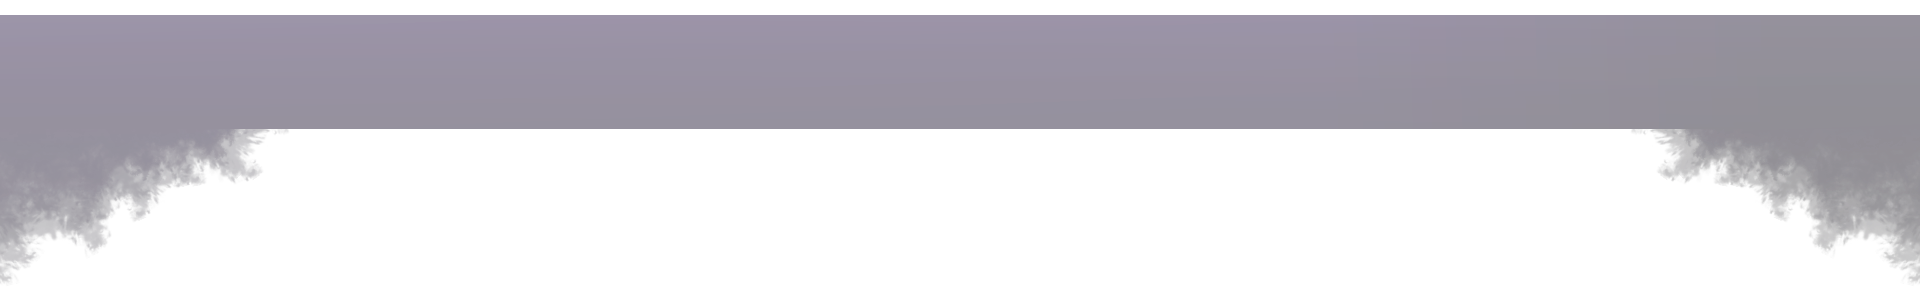
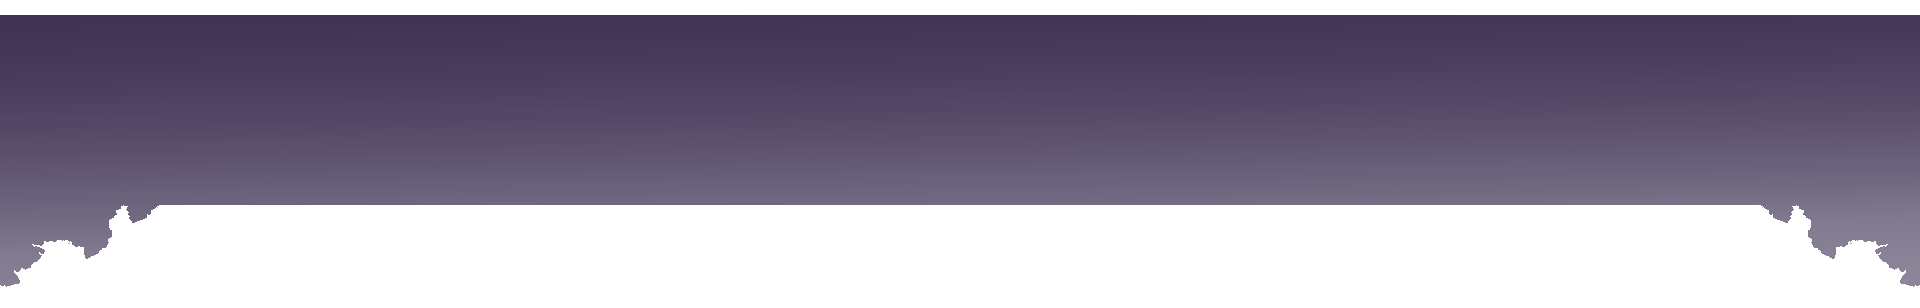
Updated HUD to be less screen stealing

diff --git a/WebContent/js/scenes/HUD/HUDCanvas.js b/WebContent/js/scenes/HUD/HUDCanvas.js
@@ -14,9 +14,9 @@ function HUDCanvas(aGame, aParent) {
 
 	/* --- pre-init-end --- */
 
-	this.game.add.sprite(0, -55, 'HUDAtlas', 'header', this);
+	this.game.add.sprite(0, -129, 'HUDAtlas', 'header', this);
 
-	this.game.add.sprite(0, 780, 'HUDAtlas', 'footer', this);
+	this.game.add.sprite(0, 797, 'HUDAtlas', 'footer', this);
 
 	this.game.add.sprite(111, 10, 'HUDAtlas', 'leftBarEnd', this);
 
